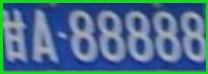
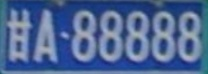
10-18-upd: ex1 finish

diff --git a/homework2/src/ex1/ex1.cpp b/homework2/src/ex1/ex1.cpp
@@ -10,12 +10,12 @@ int main() {
     cv::cvtColor(src, hsv, cv::COLOR_RGB2HSV);
     // hsv extraction
     cv::Mat hsv_result;
-    cv::inRange(hsv, cv::Scalar(0, 90, 46), cv::Scalar(10, 255, 255), hsv_result);
+    cv::inRange(hsv, cv::Scalar(0, 43, 46), cv::Scalar(10, 255, 255), hsv_result);
     // close operation
     cv::Mat close;
     cv::Mat element = cv::getStructuringElement(cv::MORPH_RECT, cv::Size(2, 2));
     cv::morphologyEx(hsv_result, close, cv::MORPH_CLOSE, element);
-//    cv::imshow("close", close);
+    cv::imwrite("../src/ex1/output/hsv.jpg",close);
     // find contour
     std::vector<std::vector<cv::Point>> contours;
     std::vector<cv::Vec4i> hierarchy;
@@ -30,33 +30,38 @@ int main() {
         }
     }
     cv::drawContours(drawer, contours, max_idx, {20, 20, 220}, 3);
-//    cv::imshow("contour", drawer);
+    cv::imwrite("../src/ex1/output/contour.jpg",drawer);
 
     // get bounding rectangle
     cv::Rect rect = cv::boundingRect(contours[max_idx]);
-    cv::rectangle(src, {rect.x, rect.y},
-                  {rect.x + rect.size().width, rect.y + rect.size().height}, {20, 220, 20}, 3);
-//    cv::imshow("result", src);
 
     // transformation
-    cv::Point2f srcPts[4],dstPts[4];
-    cv::Mat result=cv::Mat::zeros(rect.size(),CV_8UC3);
-    srcPts[0]={static_cast<float>(rect.x),static_cast<float>(rect.y)};
-    srcPts[1]={static_cast<float>(rect.x+rect.size().width),static_cast<float>(rect.y)};
-    srcPts[2]={static_cast<float>(rect.x),static_cast<float>(rect.y+rect.size().height)};
-    srcPts[3]={static_cast<float>(rect.x+rect.size().width),static_cast<float>(rect.y+rect.size().height)};
-    dstPts[0]={static_cast<float>(0),static_cast<float>(0)};
-    dstPts[1]={static_cast<float>(rect.size().width),static_cast<float>(0)};
-    dstPts[2]={static_cast<float>(0),static_cast<float>(rect.size().height)};
-    dstPts[3]={static_cast<float>(rect.size().width),static_cast<float>(rect.size().height)};
+    cv::Point2f srcPts[4], dstPts[4];
+    cv::Mat result = cv::Mat::zeros(rect.size(), CV_8UC3);
+    const int dx=12;
+    srcPts[0] = {static_cast<float>(rect.x-dx), static_cast<float>(rect.y)};
+    srcPts[1] = {static_cast<float>(rect.x + rect.size().width), static_cast<float>(rect.y)};
+    srcPts[2] = {static_cast<float>(rect.x), static_cast<float>(rect.y + rect.size().height)};
+    srcPts[3] = {static_cast<float>(rect.x + rect.size().width+dx), static_cast<float>(rect.y + rect.size().height)};
 
-    cv::Mat transform=cv::getPerspectiveTransform(srcPts,dstPts);
-    cv::warpPerspective(src,result,transform,src.size());
-    result = result(cv::Rect(0,0,rect.size().width,rect.size().height));
-    cv::imshow("result",result);
-    cv::imwrite("../src/ex1/output/result.jpg",result);
+    dstPts[0] = {static_cast<float>(0), static_cast<float>(0)};
+    dstPts[1] = {static_cast<float>(rect.size().width), static_cast<float>(0)};
+    dstPts[2] = {static_cast<float>(0), static_cast<float>(rect.size().height)};
+    dstPts[3] = {static_cast<float >(rect.size().width), static_cast<float >(rect.size().height)};
+
+    cv::Mat transform = cv::getPerspectiveTransform(srcPts, dstPts);
+    cv::warpPerspective(src, result, transform, src.size());
+    result = result(cv::Rect(0, 0, rect.size().width, rect.size().height));
+    cv::imshow("result", result);
+    cv::imwrite("../src/ex1/output/result.jpg", result);
+
+    //draw rectangle
+    cv::rectangle(src, {rect.x, rect.y},
+                  {rect.x + rect.size().width, rect.y + rect.size().height}, {20, 220, 20}, 3);
+    cv::imwrite("../src/ex1/output/rect.jpg",src);
 
     cv::waitKey(0);
     return 0;
 }
+
 
